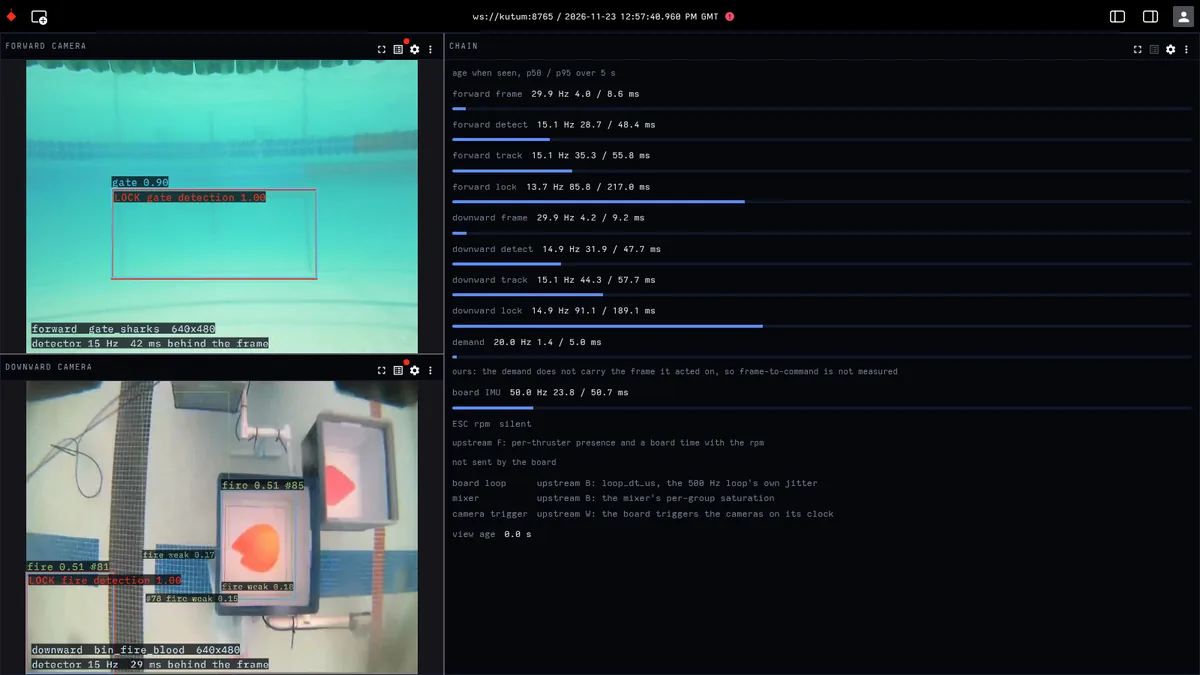
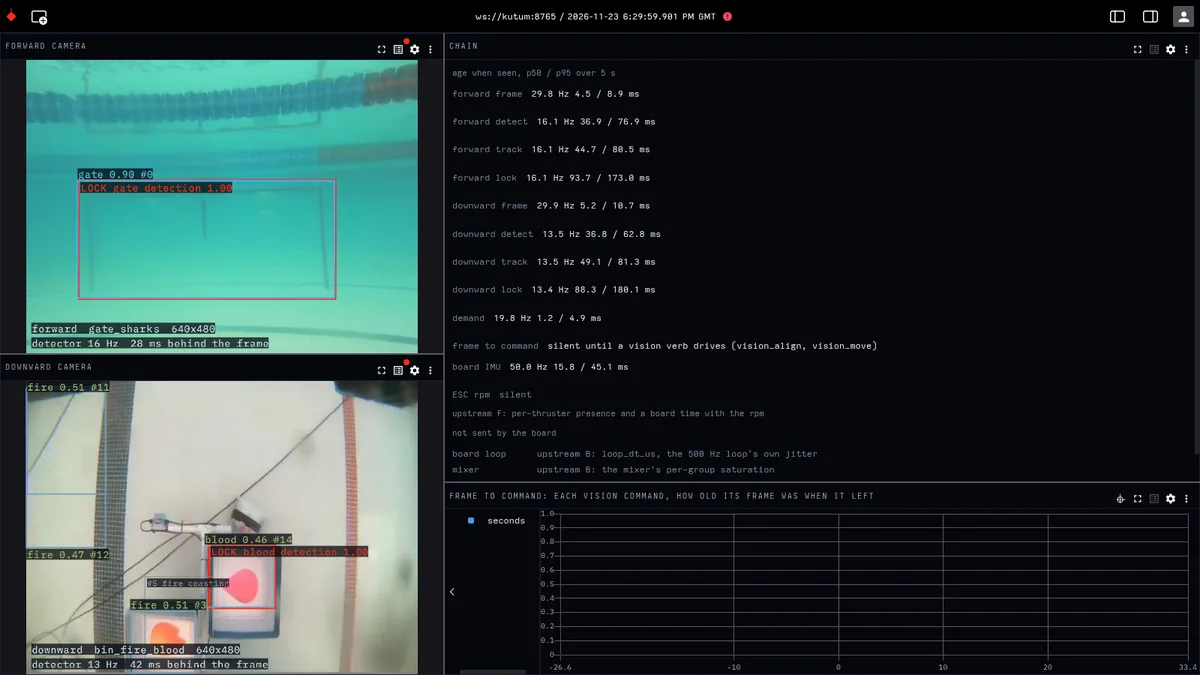
docs(batighor): the chain preview retaken on main (9f0d1ead)
Curated clips only (fwd_gate_mirpur, dwn_bin_2026; no device open). Shows
the frame-to-command row and plot, which reads 'silent until a vision verb
drives' on the bench.

diff --git a/README.md b/README.md
@@ -745,7 +745,7 @@ answer different questions, and neither commits to the other's repository.
 **Map**: plan a run. The pool from the course file, north up, the props you have placed and
 the ones you have not (listed, never put at the origin), and the hull on it.
 
-<p align="center"><img src="docs/imgs/readme/batighor-chain.webp" alt="The chain view: both cameras beside a table of how old each stage's data is, frame to detect to track to lock, with p50 and p95 in milliseconds." width="100%"></p>
+<p align="center"><img src="docs/imgs/readme/batighor-chain.webp" alt="The chain view: both cameras beside a table of how old each stage's data is, frame to detect to track to lock, with p50 and p95 in milliseconds, and below it the frame-to-command plot, empty until a vision verb drives." width="100%"></p>
 
 **Chain**: photons to thrust, each stage's age as p50 and p95. It also lists what the board
 does not send yet, each with the firmware ask that would fix it.

diff --git a/.claude/context/packages/mongla_batighor/README.md b/.claude/context/packages/mongla_batighor/README.md
@@ -178,7 +178,7 @@ live camera.
 
 ![The map: the pool outline and soundings, nominal props dashed amber, Mongla hollow amber by its start](../../../../docs/imgs/readme/batighor-map.webp)
 
-![The chain: both cameras beside each stage's age, frame to detect to track to lock](../../../../docs/imgs/readme/batighor-chain.webp)
+![The chain: both cameras beside each stage's age, frame to detect to track to lock, and the frame-to-command plot](../../../../docs/imgs/readme/batighor-chain.webp)
 
 ![Localization: usable and why not, aiding, position, sigma, velocity and heading from each source](../../../../docs/imgs/readme/batighor-localization.webp)
 
